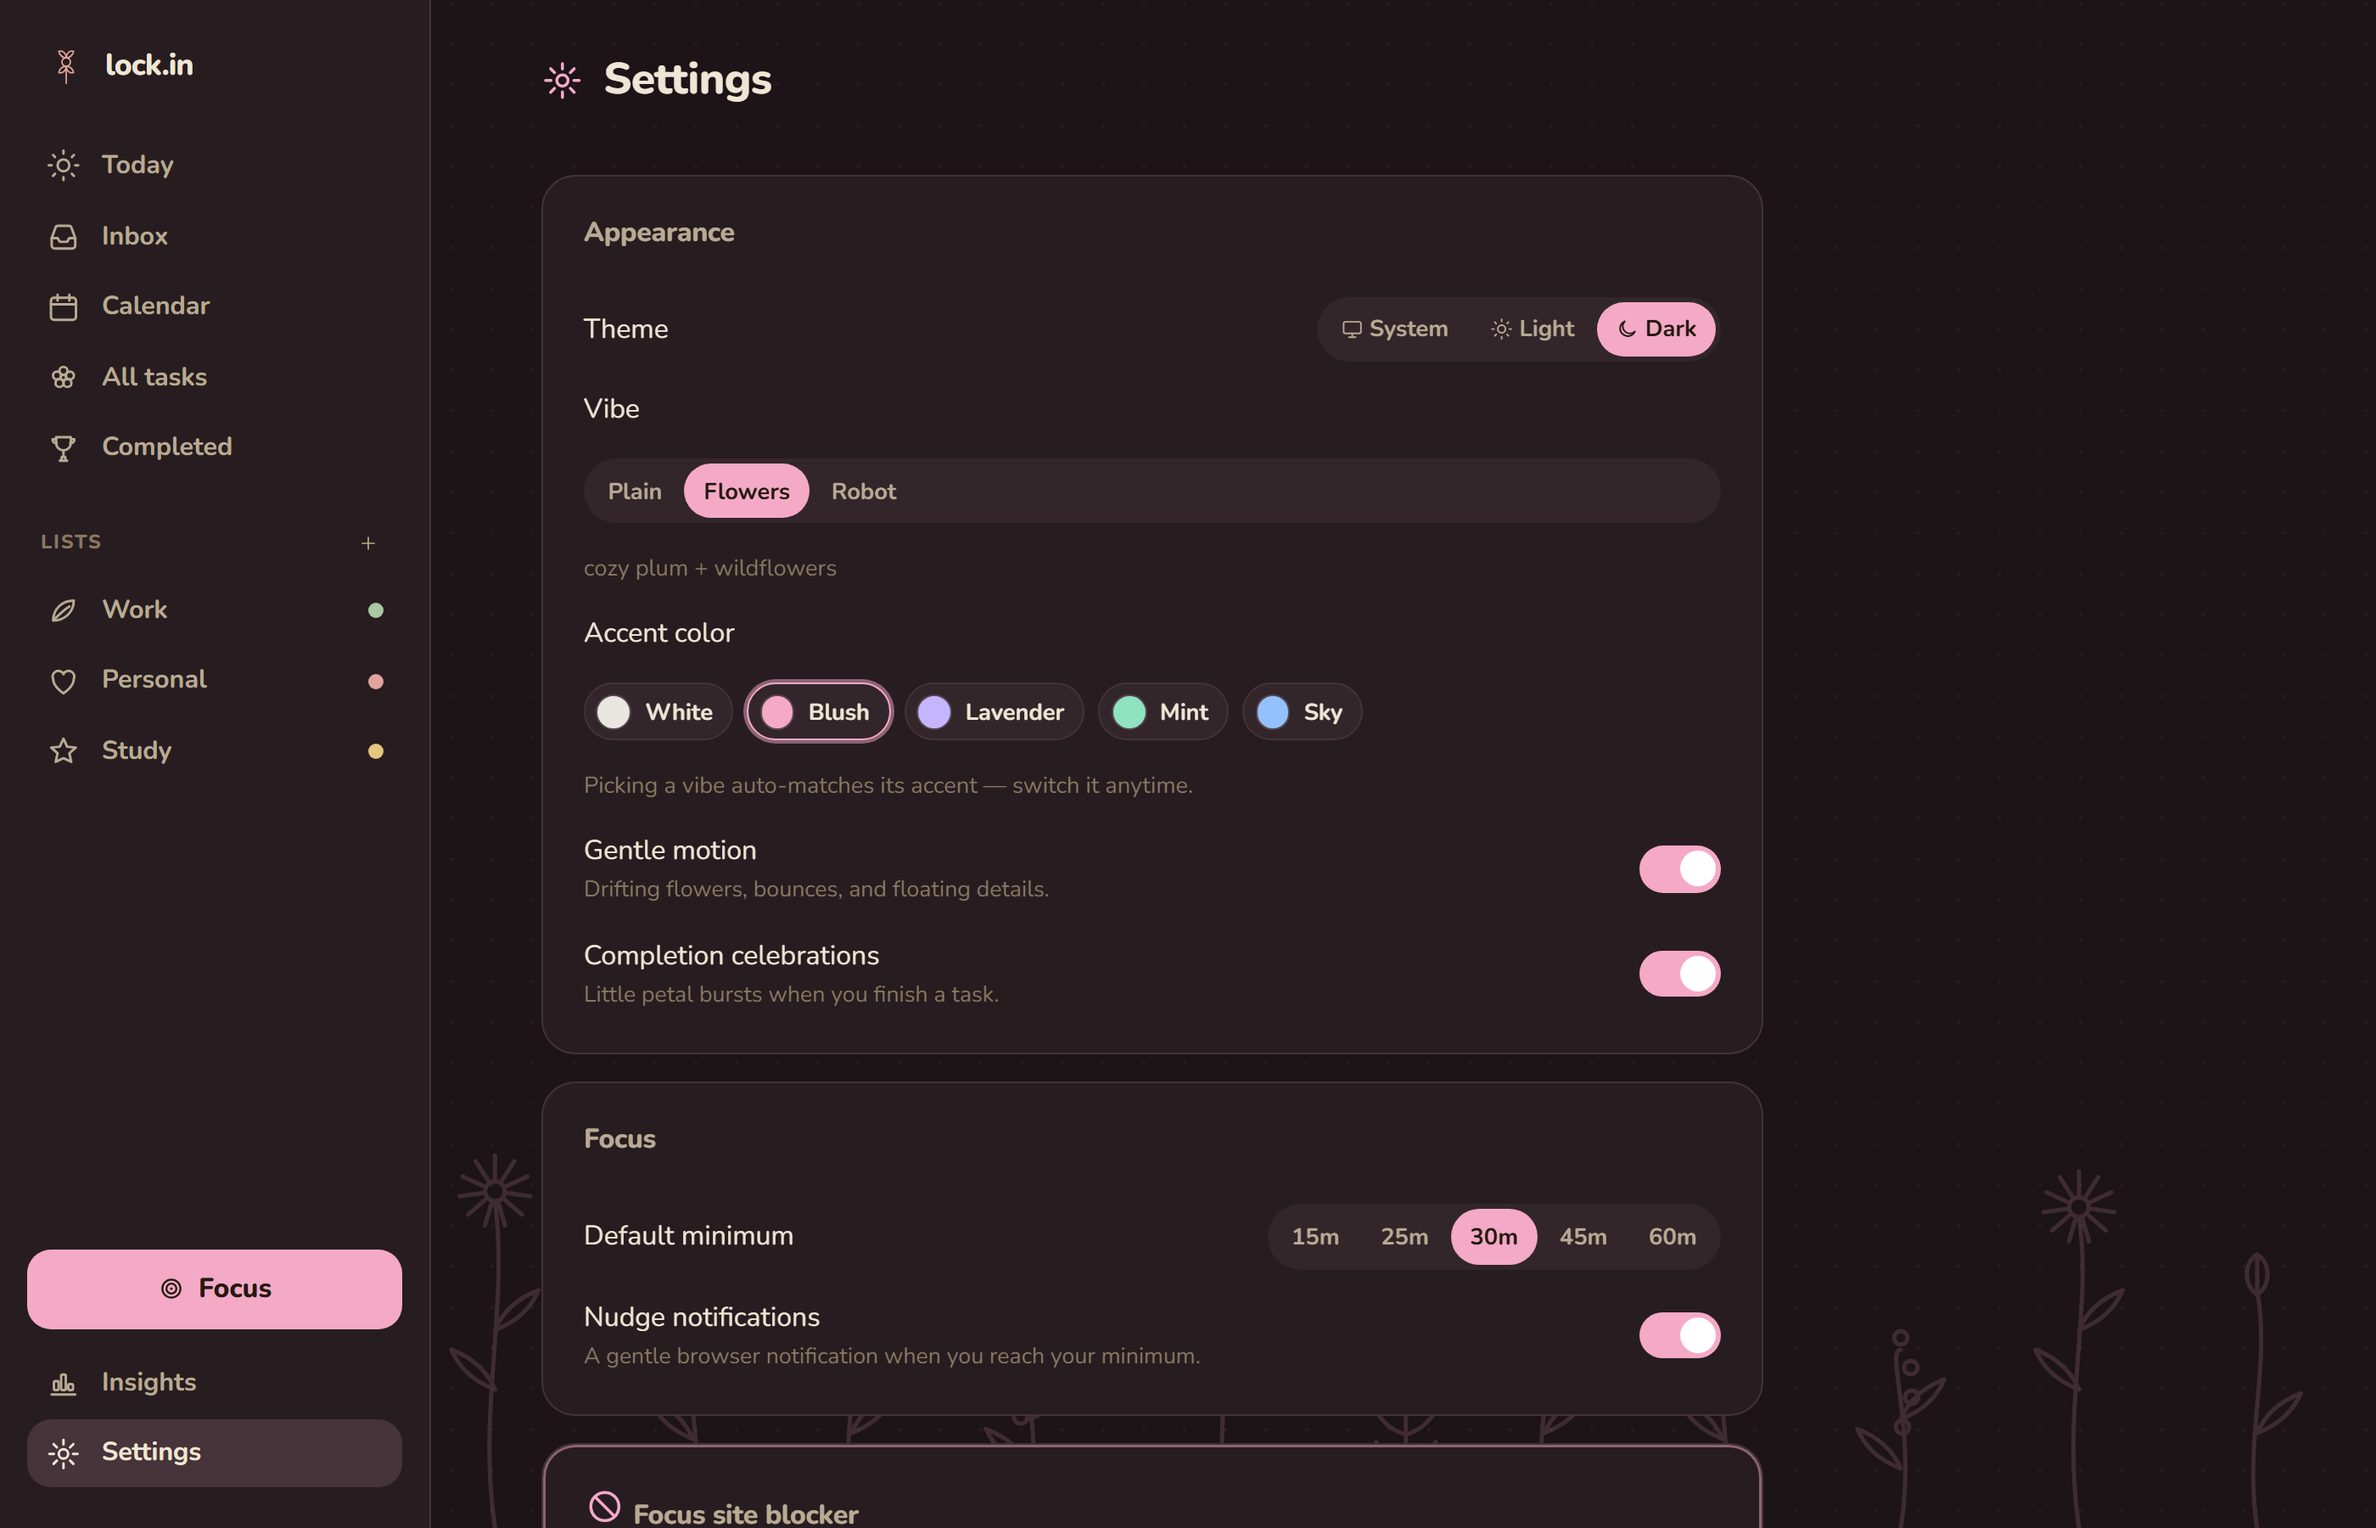
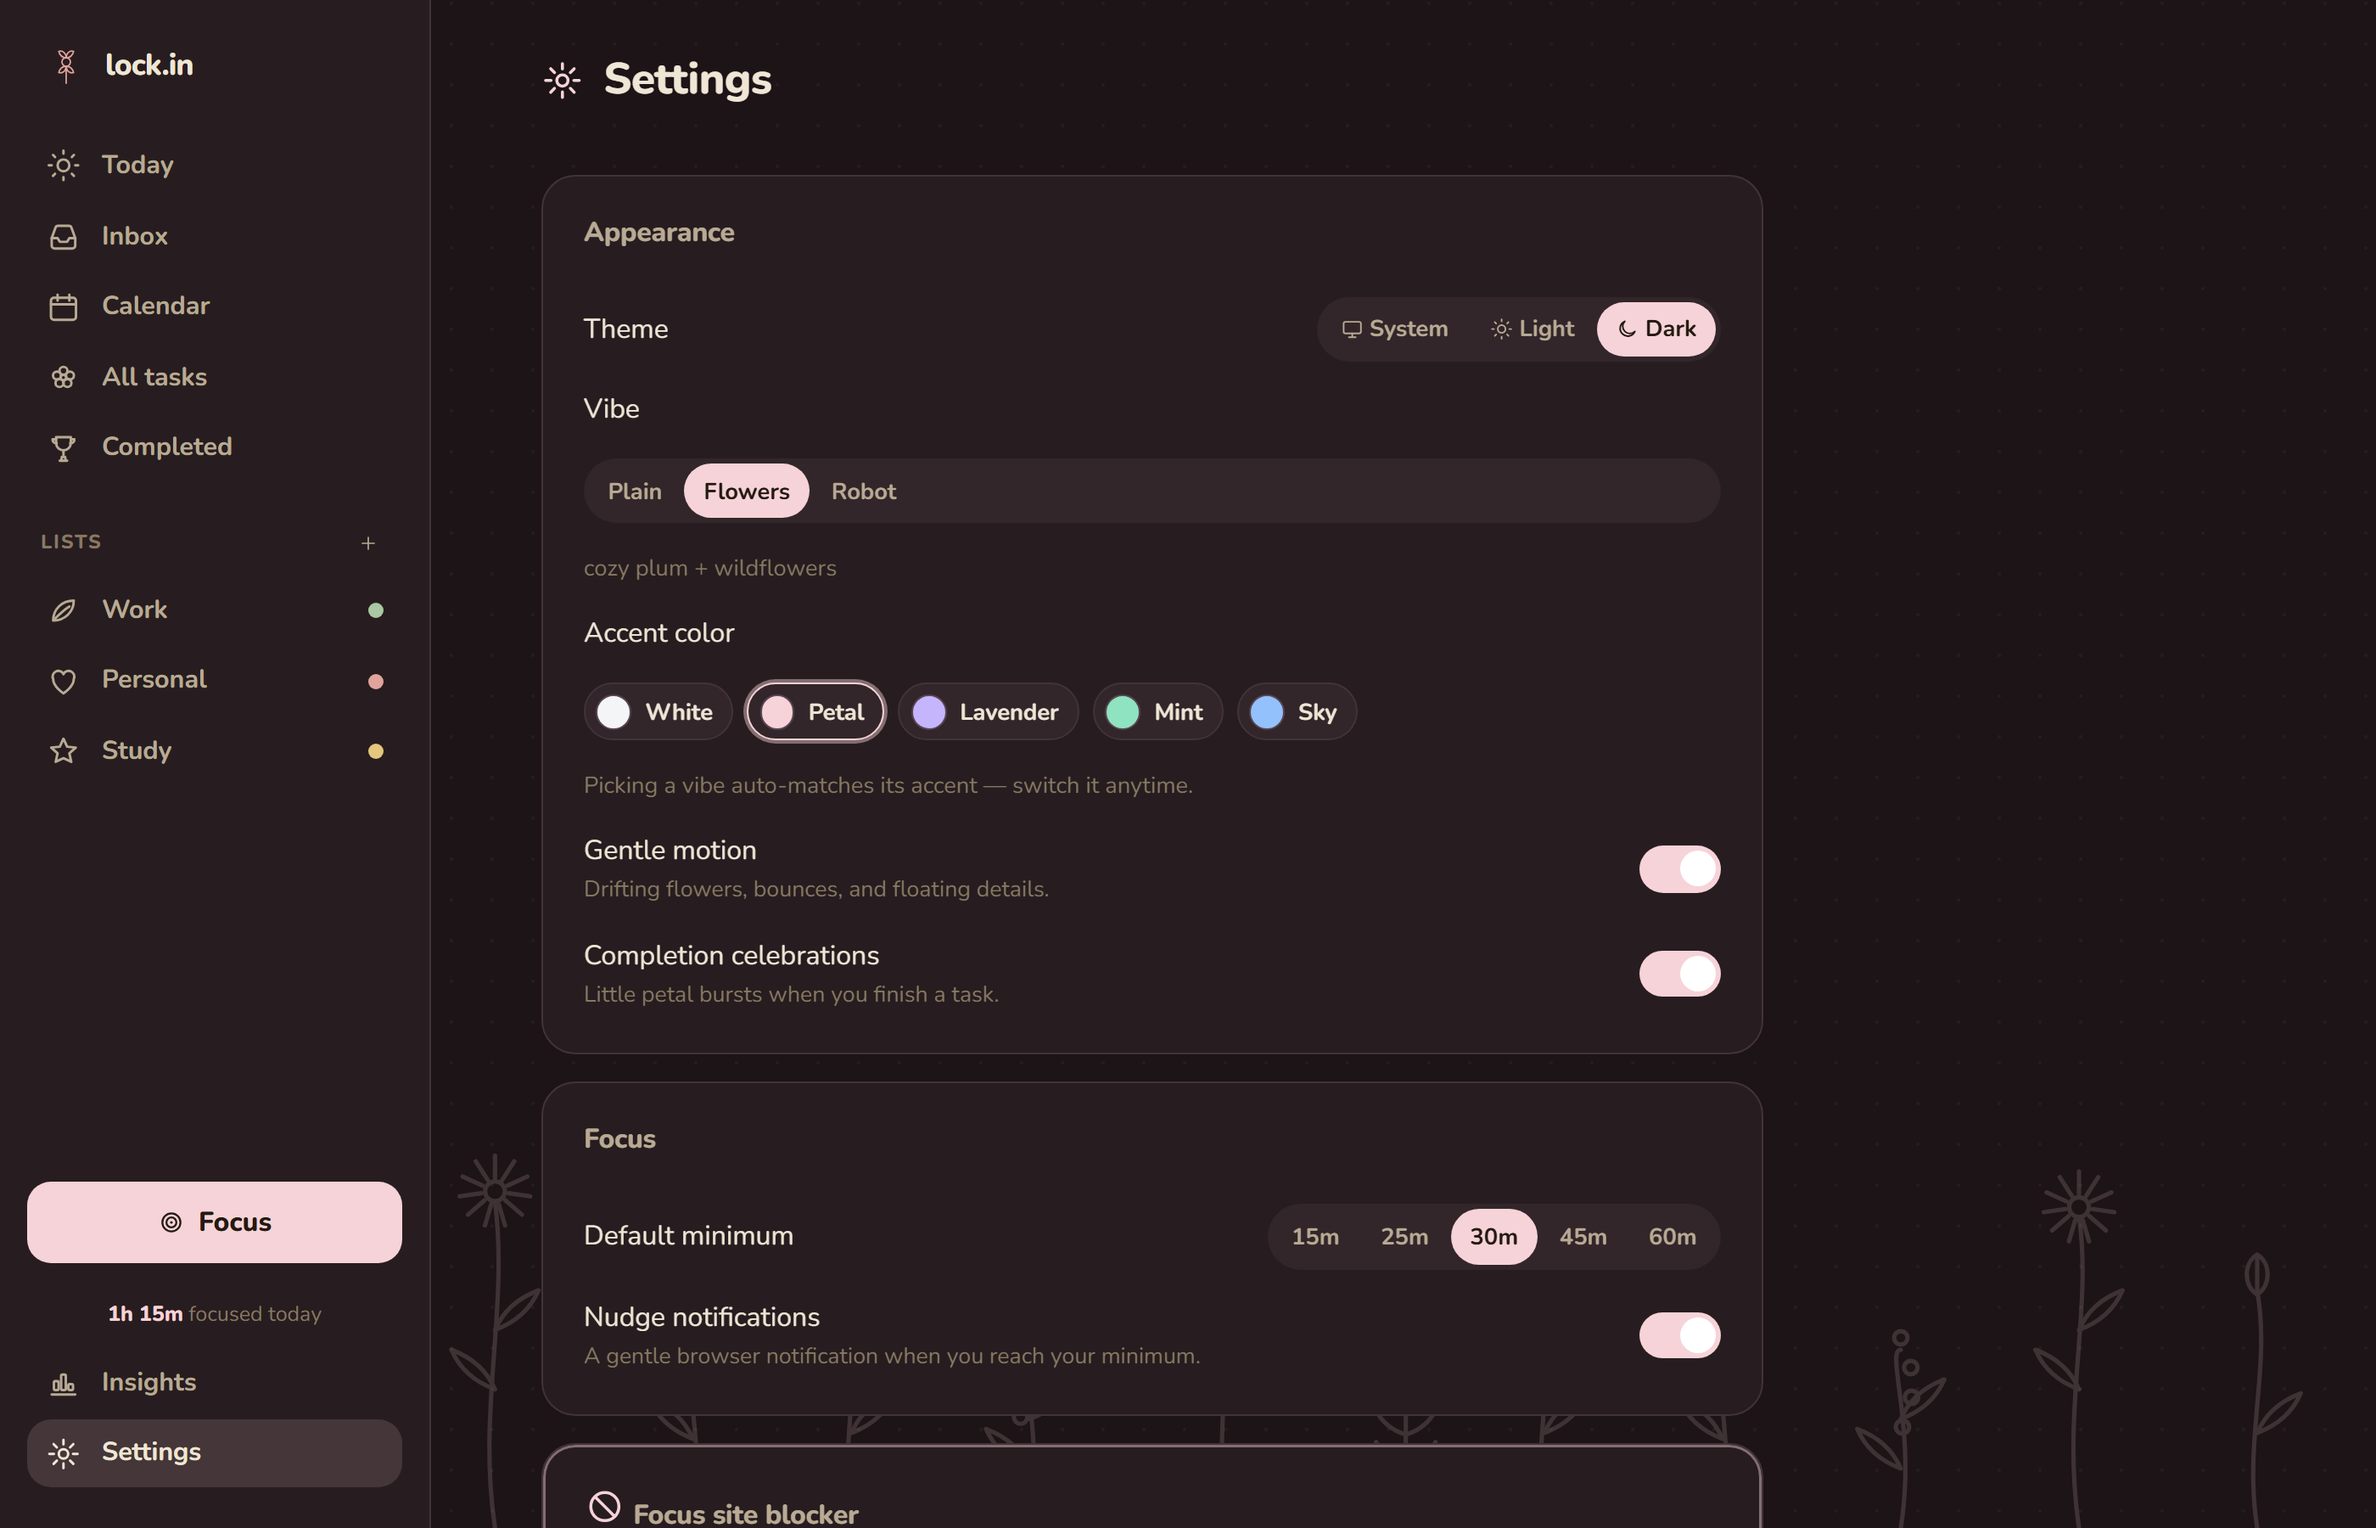
Make White read as white; constant 'Lock in' header
White was a warm off-white (#e9e6df) which, sitting on the warm plum canvas,
came across as beige rather than white. It's now a neutral near-white
(#f4f5f7) so it actually reads as the colour it's named after, still short of
harsh pure white.

The home header no longer changes with the time of day - it's simply 'Lock in',
with the focused-time line underneath.

Screenshots refreshed.

Copilot-Session: 87884037-54d0-4967-b45f-3a055d461690

diff --git a/src/features/home/HomePage.tsx b/src/features/home/HomePage.tsx
@@ -17,15 +17,6 @@ import { formatMinutes } from '../../lib/time'
 import { useState } from 'react'
 import type { Task } from '../../domain/types'
 
-function greeting(): string {
-  const h = new Date().getHours()
-  if (h < 5) return 'Still up?'
-  if (h < 12) return 'Good morning'
-  if (h < 17) return 'Good afternoon'
-  if (h < 22) return 'Good evening'
-  return 'Winding down?'
-}
-
 export function HomePage() {
   const { settings } = useSettings()
   const todayTasks = useTodayTasks()
@@ -65,12 +56,12 @@ export function HomePage() {
       <div className="home-hero">
         <div>
           <h1 className="home-greeting">
-            {greeting()} <Icon name={greetingIconFor(settings.vibe)} className="wave" />
+            Lock in <Icon name={greetingIconFor(settings.vibe)} className="wave" />
           </h1>
           <p className="home-sub">
             {focusedMs > 0
               ? `You've focused for ${formatMinutes(focusedMs / 60000)} today.`
-              : 'Time to lock in.'}
+              : 'Pick one thing to start.'}
           </p>
         </div>
       </div>

diff --git a/src/theme/tokens.css b/src/theme/tokens.css
@@ -153,18 +153,18 @@
 /* White is the neutral default; base tokens hold the fallback tone. */
 
 [data-theme='dark'][data-accent='white'] {
-  --primary: #e9e6df;
-  --primary-hover: #f6f3ec;
-  --accent-lavender: #e9e6df;
-  --ring: rgba(233, 230, 223, 0.4);
-  --soft-lavender: rgba(233, 230, 223, 0.14);
+  --primary: #f4f5f7;
+  --primary-hover: #ffffff;
+  --accent-lavender: #f4f5f7;
+  --ring: rgba(244, 245, 247, 0.4);
+  --soft-lavender: rgba(244, 245, 247, 0.14);
 }
 [data-theme='light'][data-accent='white'] {
-  --primary: #453f34;
-  --primary-hover: #35302a;
-  --accent-lavender: #453f34;
-  --ring: rgba(69, 63, 52, 0.28);
-  --soft-lavender: rgba(69, 63, 52, 0.1);
+  --primary: #3a3a40;
+  --primary-hover: #2b2b30;
+  --accent-lavender: #3a3a40;
+  --ring: rgba(58, 58, 64, 0.28);
+  --soft-lavender: rgba(58, 58, 64, 0.1);
 }
 
 [data-theme='dark'][data-accent='blush'] {

diff --git a/src/app/App.test.tsx b/src/app/App.test.tsx
@@ -8,10 +8,9 @@ describe('App', () => {
     expect(await screen.findByText('lock.in')).toBeInTheDocument()
   })
 
-  it('shows the Today greeting on the home route', async () => {
+  it('shows the Today header on the home route', async () => {
     render(<App />)
-    // Any time-of-day greeting ends up on screen.
-    expect(await screen.findByText(/morning|afternoon|evening|up\?|down\?/i)).toBeInTheDocument()
+    expect(await screen.findByRole('heading', { name: /lock in/i })).toBeInTheDocument()
   })
 
   it('does not trip the error boundary (settings load is read-only)', async () => {

diff --git a/src/features/settings/SettingsPage.tsx b/src/features/settings/SettingsPage.tsx
@@ -29,7 +29,7 @@ const THEMES: { mode: ThemeMode; label: string; icon: IconName }[] = [
 ]
 
 const ACCENTS: { name: AccentName; label: string; swatch: string }[] = [
-  { name: 'white', label: 'White', swatch: '#e9e6df' },
+  { name: 'white', label: 'White', swatch: '#f4f5f7' },
   // Internal id stays 'blush' so saved settings keep working; the label is
   // what the user picked.
   { name: 'blush', label: 'Petal', swatch: '#f6d3d8' },
